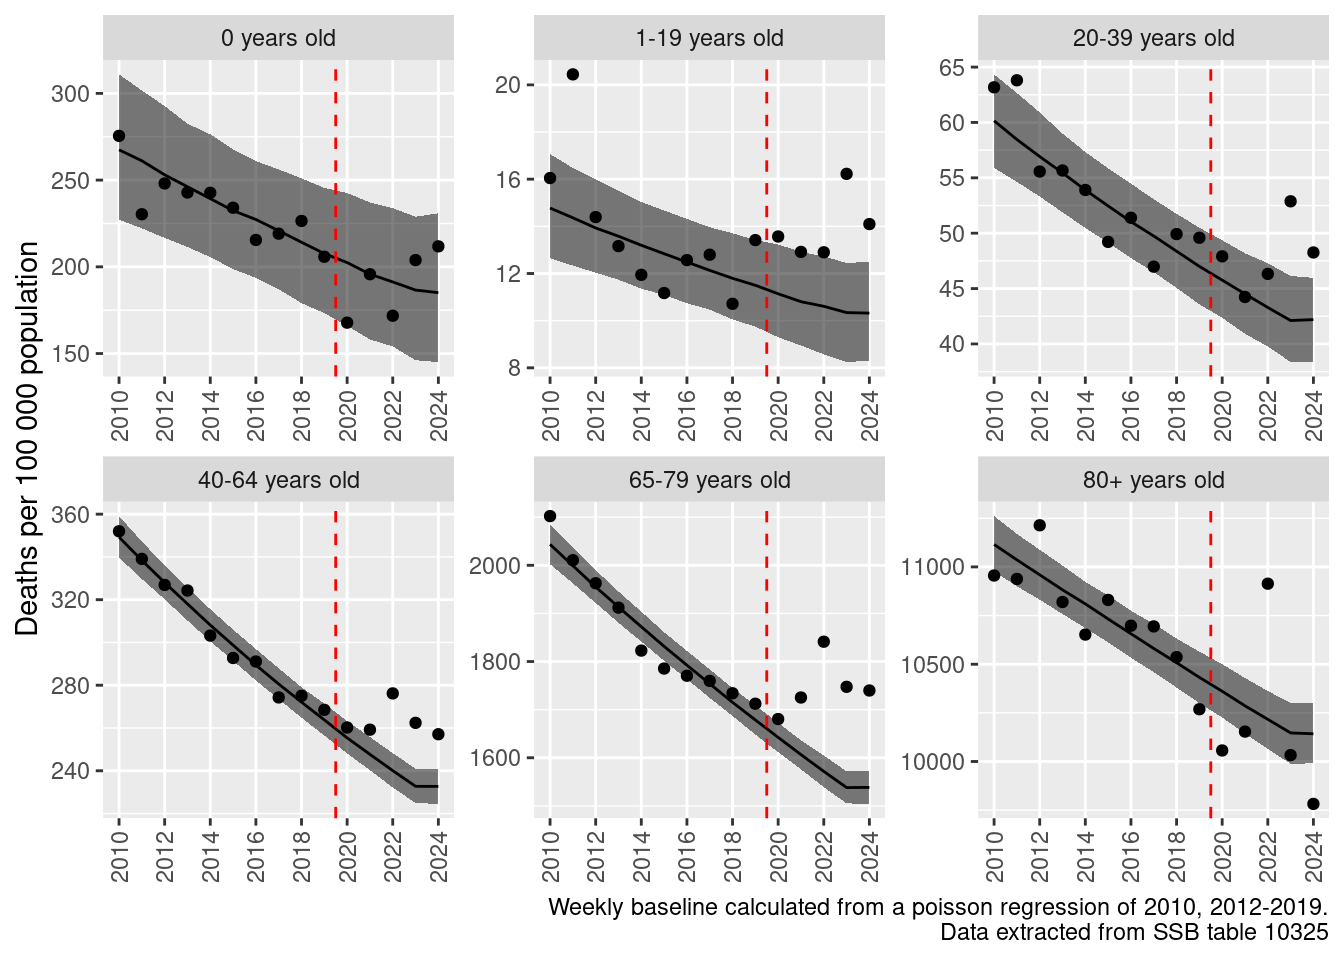
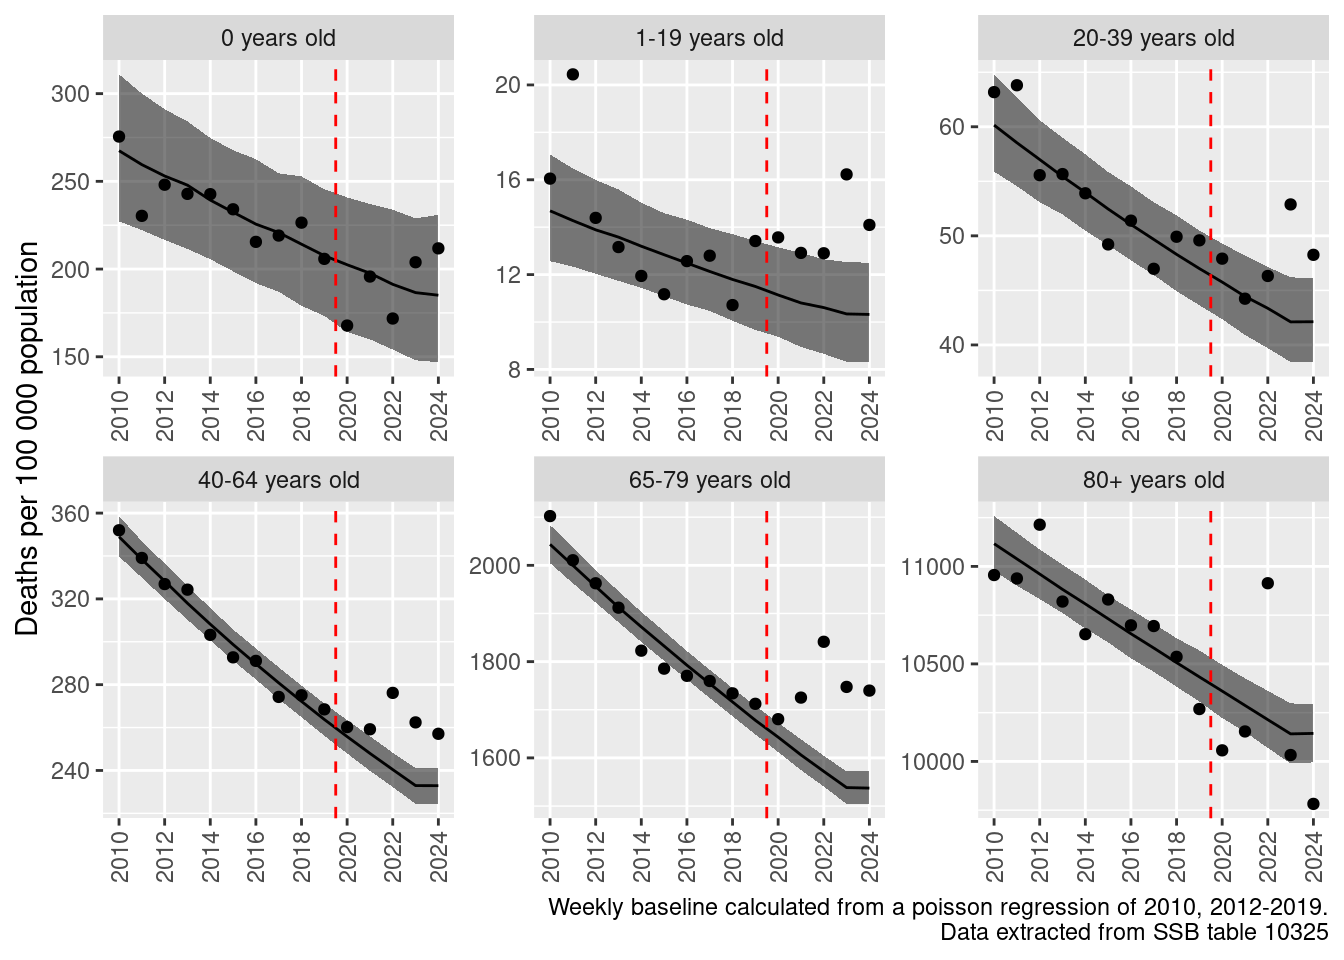
docs commit

diff --git a/docs/post/2025-03-25-all-cause-mortality-in-norway/all-cause-mortality-in-norway.html b/docs/post/2025-03-25-all-cause-mortality-in-norway/all-cause-mortality-in-norway.html
@@ -237,13 +237,14 @@ background: #b8e2f2;
 <p><img src="top.png" class="img-fluid"></p>
 <p>This is interesting, because the press release then states “In 2024 mortality was within expected ranges based on the development in the period 2011-2019 and 2023.”</p>
 <p>So it appears as though 2023 (a year with a large amount of excess mortality) is now included in the baseline. This is concerning because it means that the baseline is now higher than it was before.</p>
-<p>Furthermore, the press release states that:</p>
+<p>Secondly, the press release states that:</p>
 <blockquote class="blockquote">
 <p>No excess mortality in any age groups.</p>
 </blockquote>
 <p><img src="middle.png" class="img-fluid"></p>
 <p>So how much of this is due to the fact that the baseline has been shifted upwards? Lets find out.</p>
 <p>Here, I fit a Poisson regression with a baseline comprising of 2010, 2012-2019. I remove 2011 because of the terror attacks on the 22nd of July 2011. The regression includes an offset for population size. I then calculate the 5th, 50th and 95th percentiles of the posterior predictive distribution of the number of deaths in different age groups. I then plot the results as rates of death per 100 000 population.</p>
+<p>I have chosen a linear extrapolation out to 2023 and then set the 2024 baseline to be the same as 2023. I believe that this is reasonable because in last year’s report, the NIPH used a linear extrapolation out to 2023.</p>
 <div class="cell">
 <details class="code-fold">
 <summary>Show the code</summary>
@@ -372,6 +373,8 @@ background: #b8e2f2;
 </div>
 </div>
 </div>
+<p>Unfortunately, it appears as though there is still significant excess mortality in 2024, including in the younger age groups.</p>
+<p>The Norwegian Institute of Public Health’s positive press release seems to be based primarily upon a shift in the baseline, rather than a true reduction in mortality. This is concerning, as it may lead to a false sense of security.</p>
 
 
 

diff --git a/docs/blog.html b/docs/blog.html
@@ -246,7 +246,7 @@ window.Quarto = {
 
 <div class="quarto-listing quarto-listing-container-default" id="listing-listing">
 <div class="list quarto-listing-default">
-<div class="quarto-post image-right" data-index="0" data-listing-date-sort="1742857200000" data-listing-file-modified-sort="1742907374066" data-listing-date-modified-sort="NaN" data-listing-reading-time-sort="4" data-listing-word-count-sort="713">
+<div class="quarto-post image-right" data-index="0" data-listing-date-sort="1742857200000" data-listing-file-modified-sort="1742907496103" data-listing-date-modified-sort="NaN" data-listing-reading-time-sort="4" data-listing-word-count-sort="713">
 <div class="thumbnail">
 <p><a href="./post/2025-03-25-all-cause-mortality-in-norway/all-cause-mortality-in-norway.html" class="no-external"></a></p><a href="./post/2025-03-25-all-cause-mortality-in-norway/all-cause-mortality-in-norway.html" class="no-external">
 <p class="card-img-top"><img src="post/2025-03-25-all-cause-mortality-in-norway/top.png"  class="thumbnail-image card-img"/></p>
